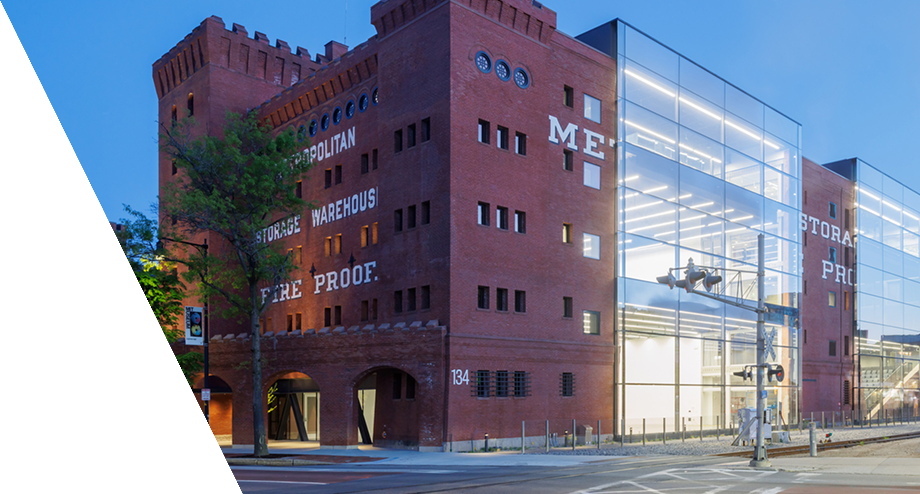
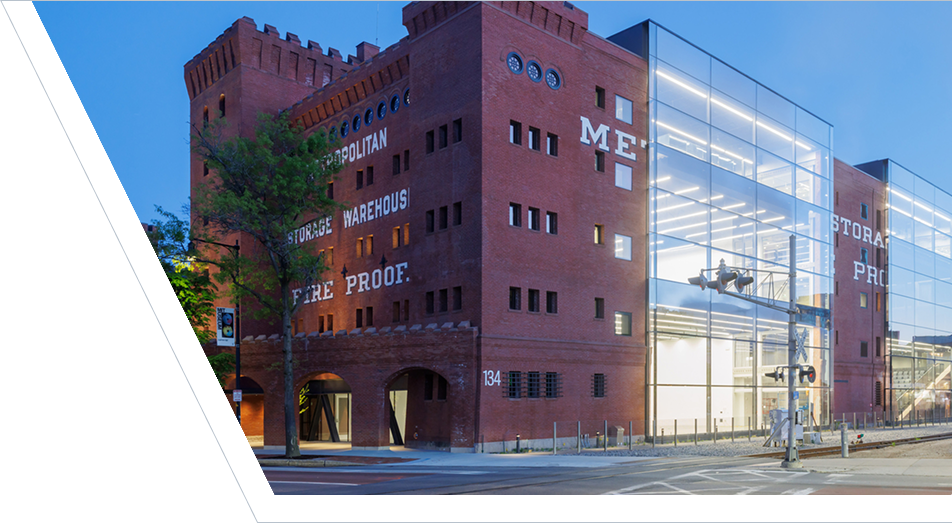
add images for all the departments

diff --git a/frontends/main/src/app-pages/ChannelPage/ChannelRedesignTemplate.tsx b/frontends/main/src/app-pages/ChannelPage/ChannelRedesignTemplate.tsx
@@ -30,9 +30,10 @@ const BannerSkeleton = styled(Skeleton)(({ theme }) => ({
  * The hero, per the department design.
  *
  * White, with the department's photograph laid over its top right -- see
- * `HeroPhoto`. There is no wash over the picture any more: the artwork now
- * arrives cut to the diagonal the design draws, so the edge is the image's
- * own and the hero has nothing to fade.
+ * `HeroPhoto`. There is no wash over the picture and no outline drawn around
+ * it any more: the artwork arrives cut to the diagonal the design draws and
+ * carries the hairline outside that cut itself, so both edges are the image's
+ * own and the hero has nothing left to draw over it.
  */
 const TopicHero = styled.section(({ theme }) => ({
   position: "relative",
@@ -64,21 +65,43 @@ const HeroPhotoClip = styled.div({
 const HERO_PHOTO_WIDTH = "55%"
 
 /**
+ * The artwork's own box, and how much of that box is the photograph.
+ *
+ * The outline the design runs outside the cut edge is part of the artwork now,
+ * which makes the file larger than the picture in it: 32px down the left for
+ * the outline and the gap it keeps from the cut, 29px below for its foot. The
+ * picture still occupies the top right 920 x 494.
+ */
+const HERO_PHOTO_ART = { width: 952, height: 523, pictureWidth: 920 }
+
+/**
+ * The artwork drawn so that the picture inside it lands on the share above.
+ *
+ * Scaling the file to that share directly would draw the picture narrower by
+ * exactly the margin, so the share is widened in the same proportion and the
+ * margin hangs off the picture's left, which is where the design has it.
+ */
+const HERO_PHOTO_ART_WIDTH = `${
+  (parseFloat(HERO_PHOTO_WIDTH) * HERO_PHOTO_ART.width) /
+  HERO_PHOTO_ART.pictureWidth
+}%`
+
+/**
  * The photograph behind a department's title.
  *
  * One placement for every department, which is what the artwork being cut to
  * a single size buys: there is nothing left for a department to state. It is
  * anchored to the hero's top right corner at its own proportions -- the
- * diagonal down its left side is part of the image, so stretching it would
- * bend the one edge the design is precise about.
+ * diagonal down its left side and the outline beyond it are part of the image,
+ * so stretching it would bend the two edges the design is precise about.
  */
 const HeroPhoto = styled.div<{ backgroundUrl: string }>(
   ({ backgroundUrl }) => ({
     position: "absolute",
-    top: 0,
+    top: "-2px",
     right: 0,
-    width: HERO_PHOTO_WIDTH,
-    aspectRatio: "920 / 494",
+    width: HERO_PHOTO_ART_WIDTH,
+    aspectRatio: `${HERO_PHOTO_ART.width} / ${HERO_PHOTO_ART.height}`,
     pointerEvents: "none",
     backgroundImage: backgroundUrl,
     backgroundRepeat: "no-repeat",
@@ -89,73 +112,6 @@ const HeroPhoto = styled.div<{ backgroundUrl: string }>(
     backgroundPosition: "top right",
   }),
 )
-
-/**
- * The hairline the design runs outside the photograph's cut edge.
- *
- * It follows the same diagonal the artwork is cut on, set about 27px out from
- * it, and turns along the bottom to leave the hero at the right -- an outline
- * the picture sits inside rather than a border on it.
- *
- * Drawn as a vector rather than built from rotated edges because the line has
- * to stay one pixel at any width while the shape it traces stretches with the
- * hero. `preserveAspectRatio="none"` lets the shape stretch; the stroke is
- * held back from stretching with it.
- *
- * Over the photograph rather than under it, which is where the design has it:
- * the top of the outline runs along the picture's own top edge, and behind it
- * there would be nothing of that line to see.
- */
-const HERO_PHOTO_BORDER_BOX = { width: 980, height: 546 }
-
-/**
- * The slope the artwork is cut on, as sideways travel per pixel down.
- *
- * The outline has to run at exactly this. It is the one number here that is
- * not free: a line even slightly off it converges on the picture's edge or
- * opens away from it over the drop, and what should read as an even margin
- * reads as a wedge. The outline's own depth has nothing to do with it -- the
- * run is taken from the drop so that moving the foot of the outline up or
- * down leaves the two edges parallel.
- */
-const HERO_PHOTO_CUT_SLOPE = 0.4917
-
-/** How far the outline travels sideways over its own drop. */
-const heroPhotoBorderRun = (depth: number) => depth * HERO_PHOTO_CUT_SLOPE
-
-/**
- * Half the stroke, so the line sits inside the box it traces rather than
- * straddling its edge and losing the outer half to the hero's clip.
- */
-const HERO_PHOTO_BORDER_INSET = 0.5
-
-/**
- * The outline against the photograph, as shares of the hero's width.
- *
- * The design sets it 30px outside a picture 920 wide, so both are scaled off
- * the width the picture is actually drawn at rather than pinned to pixels,
- * and the gap holds its proportion as the hero widens.
- */
-const borderShare = (n: number) =>
-  `${(parseFloat(HERO_PHOTO_WIDTH) * n) / 920}%`
-
-const HeroPhotoBorder = styled.svg({
-  position: "absolute",
-  top: 0,
-  right: `-${borderShare(30)}`,
-  width: borderShare(HERO_PHOTO_BORDER_BOX.width),
-  aspectRatio: `${HERO_PHOTO_BORDER_BOX.width} / ${HERO_PHOTO_BORDER_BOX.height}`,
-  pointerEvents: "none",
-  overflow: "visible",
-})
-
-const HeroPhotoBorderPath = styled.path(({ theme }) => ({
-  fill: "none",
-  stroke: theme.custom.colors.silverGrayLight,
-  strokeWidth: 1,
-  /* Held to a pixel while the box around it stretches. */
-  vectorEffect: "non-scaling-stroke",
-}))
 
 /**
  * The Follow control as the design draws it: a grey pill, not the primary red
@@ -483,20 +439,6 @@ const ChannelHeroPhoto: React.FC<{
          `url(...)`, and wrapping the second kind again drops it. */
       backgroundUrl={standardizeBackgroundUrl(configuredBanner)}
     />
-    <HeroPhotoBorder
-      data-testid="channel-hero-photo-border"
-      viewBox={`0 0 ${HERO_PHOTO_BORDER_BOX.width} ${HERO_PHOTO_BORDER_BOX.height}`}
-      preserveAspectRatio="none"
-    >
-      {/* Leftwards along the top of the picture, down the diagonal, then back
-          along the foot. Three sides rather than four: the design closes the
-          shape up its right-hand side, which on artwork this width would fall
-          inside the hero and draw a line across the picture that the design
-          does not have -- there it runs off the edge and is never seen. */}
-      <HeroPhotoBorderPath
-        d={`M${HERO_PHOTO_BORDER_BOX.width} ${HERO_PHOTO_BORDER_INSET} H${HERO_PHOTO_BORDER_INSET} L${heroPhotoBorderRun(HERO_PHOTO_BORDER_BOX.height)} ${HERO_PHOTO_BORDER_BOX.height - HERO_PHOTO_BORDER_INSET} H${HERO_PHOTO_BORDER_BOX.width}`}
-      />
-    </HeroPhotoBorder>
   </HeroPhotoClip>
 )
 

diff --git a/frontends/main/src/app-pages/ChannelPage/departmentBanners.ts b/frontends/main/src/app-pages/ChannelPage/departmentBanners.ts
@@ -8,17 +8,37 @@
  */
 import type { StaticImageData } from "next/image"
 import architectureBanner from "@/public/images/backgrounds/architecture.png"
-import mediaArtsAndSciencesBanner from "@/public/images/backgrounds/media-arts-and-sciences.jpg"
-import urbanStudiesAndPlanningBanner from "@/public/images/backgrounds/urban-studies-and-planning.jpg"
-import aeronauticsAndAstronauticsBanner from "@/public/images/backgrounds/aeronautics-and-astronautics.jpg"
-import biologicalEngineeringBanner from "@/public/images/backgrounds/biological-engineering.jpg"
-import chemicalEngineeringBanner from "@/public/images/backgrounds/chemical-engineering.jpg"
-import civilAndEnvironmentalEngineeringBanner from "@/public/images/backgrounds/civil-and-environmental-engineering.jpg"
-import electricalEngineeringAndComputerScienceBanner from "@/public/images/backgrounds/electrical-engineering-and-computer-science.jpg"
-import healthSciencesAndTechnologyBanner from "@/public/images/backgrounds/health-sciences-and-technology.jpg"
-import materialsScienceAndEngineeringBanner from "@/public/images/backgrounds/materials-science-and-engineering.jpg"
-import mechanicalEngineeringBanner from "@/public/images/backgrounds/mechanical-engineering.jpg"
-import nuclearScienceAndEngineeringBanner from "@/public/images/backgrounds/nuclear-science-and-engineering.jpg"
+import mediaArtsAndSciencesBanner from "@/public/images/backgrounds/media-arts-and-sciences.png"
+import urbanStudiesAndPlanningBanner from "@/public/images/backgrounds/urban-studies-and-planning.png"
+import aeronauticsAndAstronauticsBanner from "@/public/images/backgrounds/aeronautics-and-astronautics.png"
+import biologicalEngineeringBanner from "@/public/images/backgrounds/biological-engineering.png"
+import chemicalEngineeringBanner from "@/public/images/backgrounds/chemical-engineering.png"
+import civilAndEnvironmentalEngineeringBanner from "@/public/images/backgrounds/civil-and-environmental-engineering.png"
+import electricalEngineeringAndComputerScienceBanner from "@/public/images/backgrounds/electrical-engineering-and-computer-science.png"
+import healthSciencesAndTechnologyBanner from "@/public/images/backgrounds/health-sciences-and-technology.png"
+import materialsScienceAndEngineeringBanner from "@/public/images/backgrounds/materials-science-and-engineering.png"
+import mechanicalEngineeringBanner from "@/public/images/backgrounds/mechanical-engineering.png"
+import nuclearScienceAndEngineeringBanner from "@/public/images/backgrounds/nuclear-science-and-engineering.png"
+import musicBanner from "@/public/images/backgrounds/music.png"
+import politicalScienceBanner from "@/public/images/backgrounds/political-science.png"
+import historyBanner from "@/public/images/backgrounds/history.png"
+import literatureBanner from "@/public/images/backgrounds/literature.png"
+import anthropologyBanner from "@/public/images/backgrounds/anthropology.png"
+import economicsBanner from "@/public/images/backgrounds/economics.png"
+import comparativeMediaStudiesWritingBanner from "@/public/images/backgrounds/comparative-media-studieswriting.png"
+import globalStudiesAndLanguagesBanner from "@/public/images/backgrounds/global-studies-and-languages.png"
+import linguisticsAndPhilosophyBanner from "@/public/images/backgrounds/linguistics-and-philosophy.png"
+import scienceTechnologyAndSocietyBanner from "@/public/images/backgrounds/science-technology-and-society.png"
+import theaterArtsBanner from "@/public/images/backgrounds/theater-arts.png"
+import womensAndGenderStudiesBanner from "@/public/images/backgrounds/womens-and-gender-studies.png"
+import sloanSchoolOfManagementBanner from "@/public/images/backgrounds/sloan-school-of-management.png"
+import brainAndCognitiveSciencesBanner from "@/public/images/backgrounds/brain-and-cognitive-sciences.png"
+import chemistryBanner from "@/public/images/backgrounds/chemistry.png"
+import biologyBanner from "@/public/images/backgrounds/biology.png"
+import earthAtmosphericAndPlanetarySciencesBanner from "@/public/images/backgrounds/earth-atmospheric-and-planetary-sciences.png"
+import physicsBanner from "@/public/images/backgrounds/physics.png"
+import dataSystemsAndSocietyBanner from "@/public/images/backgrounds/data-systems-and-society.png"
+import mathematicsBanner from "@/public/images/backgrounds/mathematics.png"
 
 /**
  * The artwork behind a department's title, by department.
@@ -54,6 +74,28 @@ const DEPARTMENT_BANNERS: Partial<Record<string, StaticImageData>> = {
   "materials-science-and-engineering": materialsScienceAndEngineeringBanner,
   "mechanical-engineering": mechanicalEngineeringBanner,
   "nuclear-science-and-engineering": nuclearScienceAndEngineeringBanner,
+  anthropology: anthropologyBanner,
+  "comparative-media-studieswriting": comparativeMediaStudiesWritingBanner,
+  economics: economicsBanner,
+  "global-studies-and-languages": globalStudiesAndLanguagesBanner,
+  history: historyBanner,
+  "linguistics-and-philosophy": linguisticsAndPhilosophyBanner,
+  literature: literatureBanner,
+  music: musicBanner,
+  "political-science": politicalScienceBanner,
+  "science-technology-and-society": scienceTechnologyAndSocietyBanner,
+  "theater-arts": theaterArtsBanner,
+  "womens-and-gender-studies": womensAndGenderStudiesBanner,
+  "sloan-school-of-management": sloanSchoolOfManagementBanner,
+  biology: biologyBanner,
+  "brain-and-cognitive-sciences": brainAndCognitiveSciencesBanner,
+  chemistry: chemistryBanner,
+  "earth-atmospheric-and-planetary-sciences":
+    earthAtmosphericAndPlanetarySciencesBanner,
+  mathematics: mathematicsBanner,
+  physics: physicsBanner,
+  "data-systems-and-society": dataSystemsAndSocietyBanner,
+  "institute-for-data-systems-and-society": dataSystemsAndSocietyBanner,
 }
 
 export { DEPARTMENT_BANNERS }
